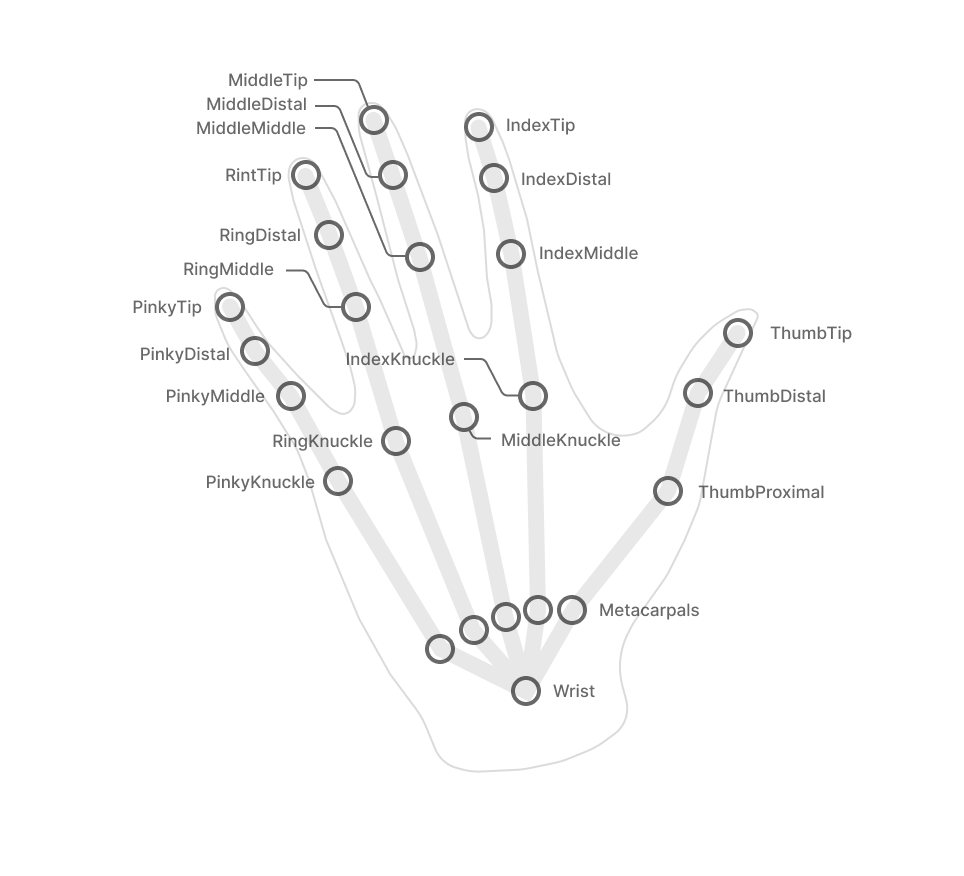
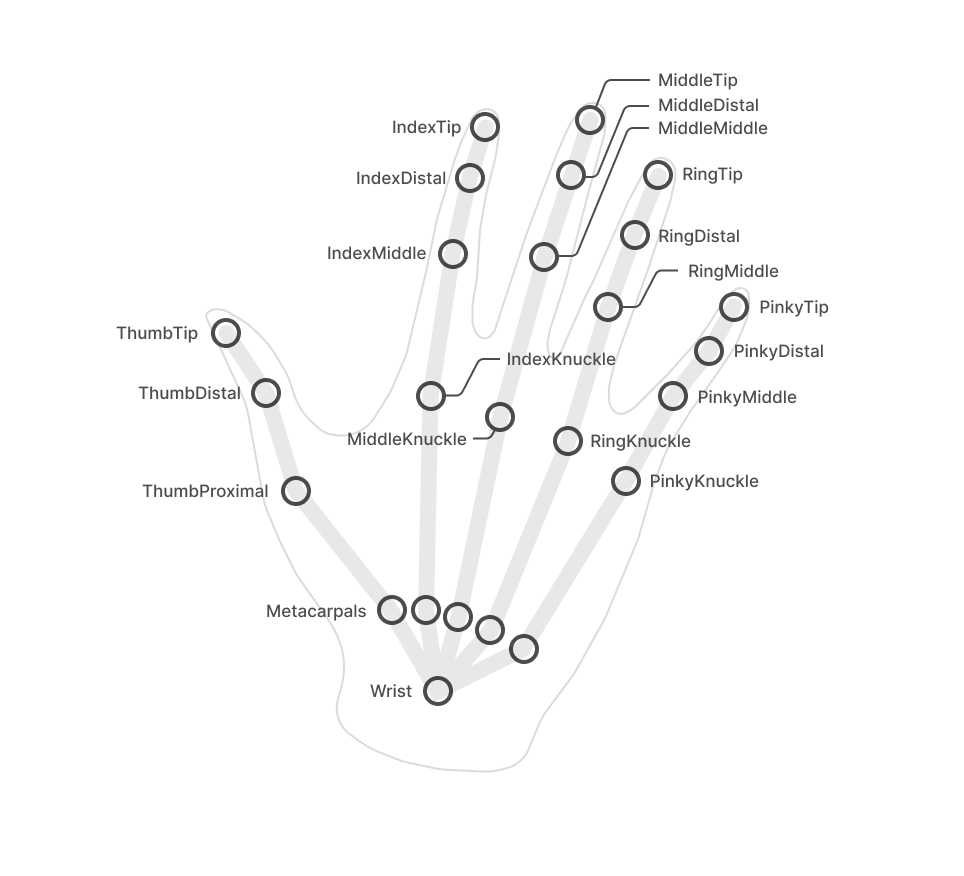
Flipped hand diagram handedness, as well as swapped the color background.

diff --git a/Documentation/Input/HandTracking.md b/Documentation/Input/HandTracking.md
@@ -16,7 +16,7 @@ By default the hand joint prefabs are simple geometric primitives. These can be 
 > Avoid using complex scripts or expensive rendering in joint prefabs, since joint objects are transformed on every frame and can have significant performance cost!
 
 <img src="../../Documentation/Images/InputSimulation/MRTK_Core_Input_Hands_JointVisualizerPrefabs.png" height="350px"  style="display:inline;">
-<img src="../../Documentation/Images/InputSimulation/MRTK_Core_Input_Hands_JointNames_Dark.png" height="350px"  style="display:inline;">
+<img src="../../Documentation/Images/InputSimulation/MRTK_Core_Input_Hands_JointNames.png" height="350px"  style="display:inline;">
 
 ## Hand mesh prefab
 
